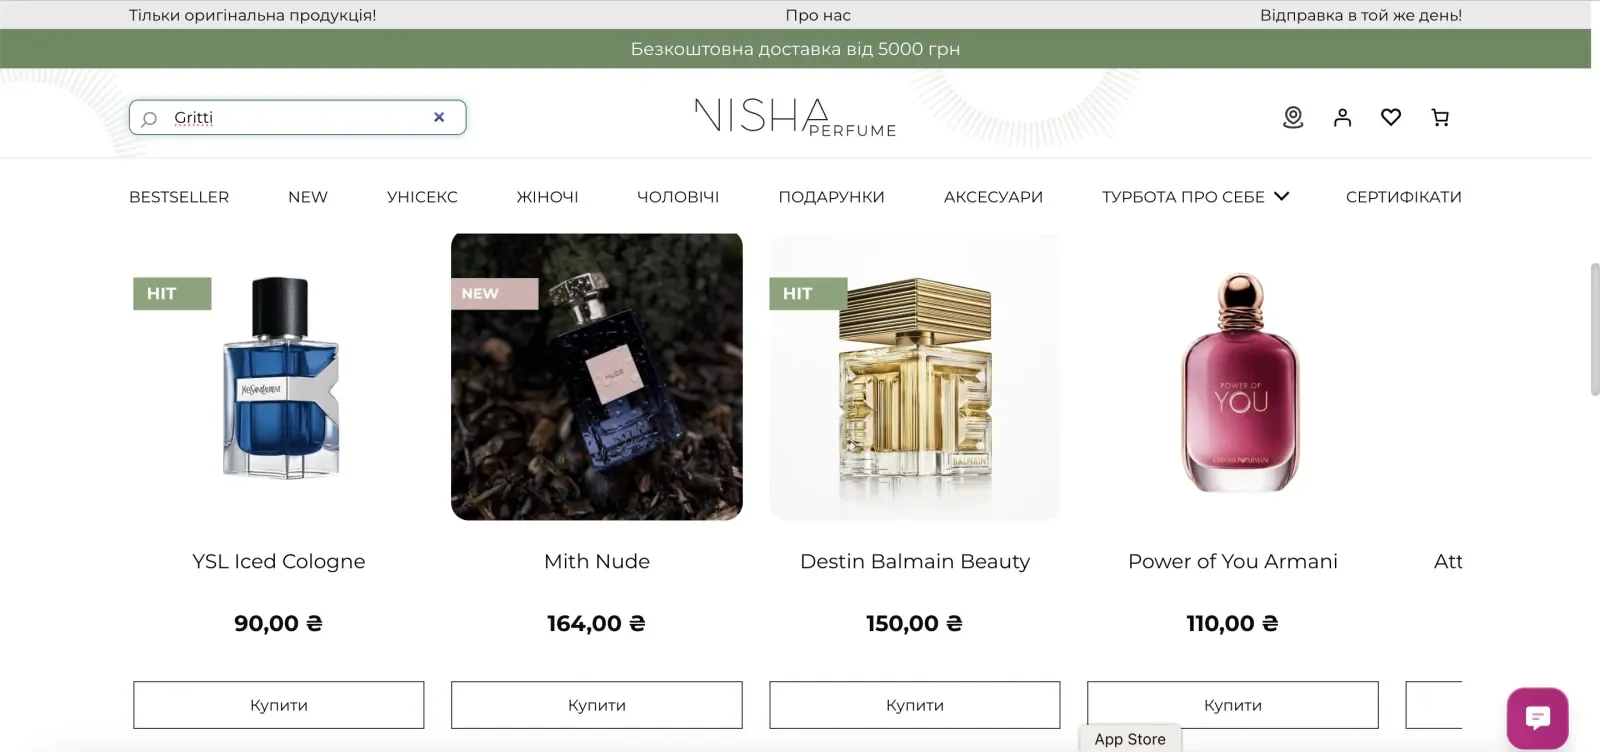
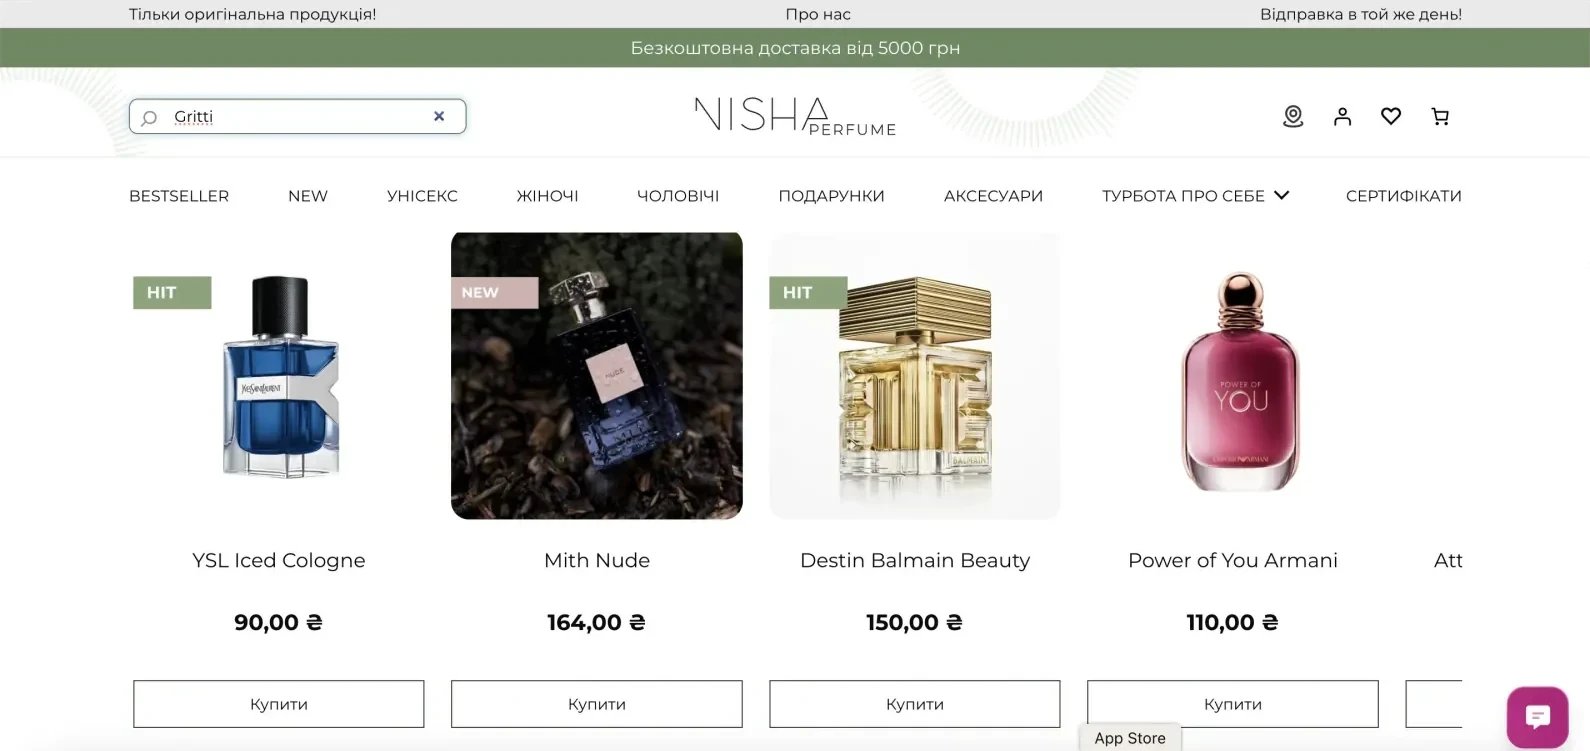
Screenshots: remove baked frames and grey corners
Savvy trade windows: grey rounded-corner fill and stray edge pixels painted
white. Nisha design-system images: their own 2-3 px frame cropped, so only
the site's thin frame remains. Nisha before screenshots: browser scrollbar
and a 1 px top line cropped; sizes updated.

diff --git a/uk/cases/nisha-perfume.html b/uk/cases/nisha-perfume.html
@@ -97,8 +97,8 @@
           </ul>
         </div>
         <div class="shots shots--two reveal-up">
-          <figure class="shot"><img src="../../assets/img/cases/nisha/before-home.webp" width="1600" height="752" alt="Стара головна Nisha: зелений банер в іншому стилі, ніж решта сторінки." loading="lazy"><figcaption>Стара головна</figcaption></figure>
-          <figure class="shot"><img src="../../assets/img/cases/nisha/before-catalog.webp" width="1600" height="752" alt="Старий каталог Nisha: картки лише з фото, назвою і ціною." loading="lazy"><figcaption>Старий каталог: лише назва і ціна</figcaption></figure>
+          <figure class="shot"><img src="../../assets/img/cases/nisha/before-home.webp" width="1590" height="751" alt="Стара головна Nisha: зелений банер в іншому стилі, ніж решта сторінки." loading="lazy"><figcaption>Стара головна</figcaption></figure>
+          <figure class="shot"><img src="../../assets/img/cases/nisha/before-catalog.webp" width="1590" height="751" alt="Старий каталог Nisha: картки лише з фото, назвою і ціною." loading="lazy"><figcaption>Старий каталог: лише назва і ціна</figcaption></figure>
         </div>
       </div>
     </section>

diff --git a/cases/nisha-perfume.html b/cases/nisha-perfume.html
@@ -97,8 +97,8 @@
           </ul>
         </div>
         <div class="shots shots--two reveal-up">
-          <figure class="shot"><img src="../assets/img/cases/nisha/before-home.webp" width="1600" height="752" alt="The old Nisha home page: a green banner in a different style from the rest of the page." loading="lazy"><figcaption>The old home page</figcaption></figure>
-          <figure class="shot"><img src="../assets/img/cases/nisha/before-catalog.webp" width="1600" height="752" alt="The old Nisha catalog: product cards with only a photo, a name and a price." loading="lazy"><figcaption>The old catalog: name and price only</figcaption></figure>
+          <figure class="shot"><img src="../assets/img/cases/nisha/before-home.webp" width="1590" height="751" alt="The old Nisha home page: a green banner in a different style from the rest of the page." loading="lazy"><figcaption>The old home page</figcaption></figure>
+          <figure class="shot"><img src="../assets/img/cases/nisha/before-catalog.webp" width="1590" height="751" alt="The old Nisha catalog: product cards with only a photo, a name and a price." loading="lazy"><figcaption>The old catalog: name and price only</figcaption></figure>
         </div>
       </div>
     </section>
